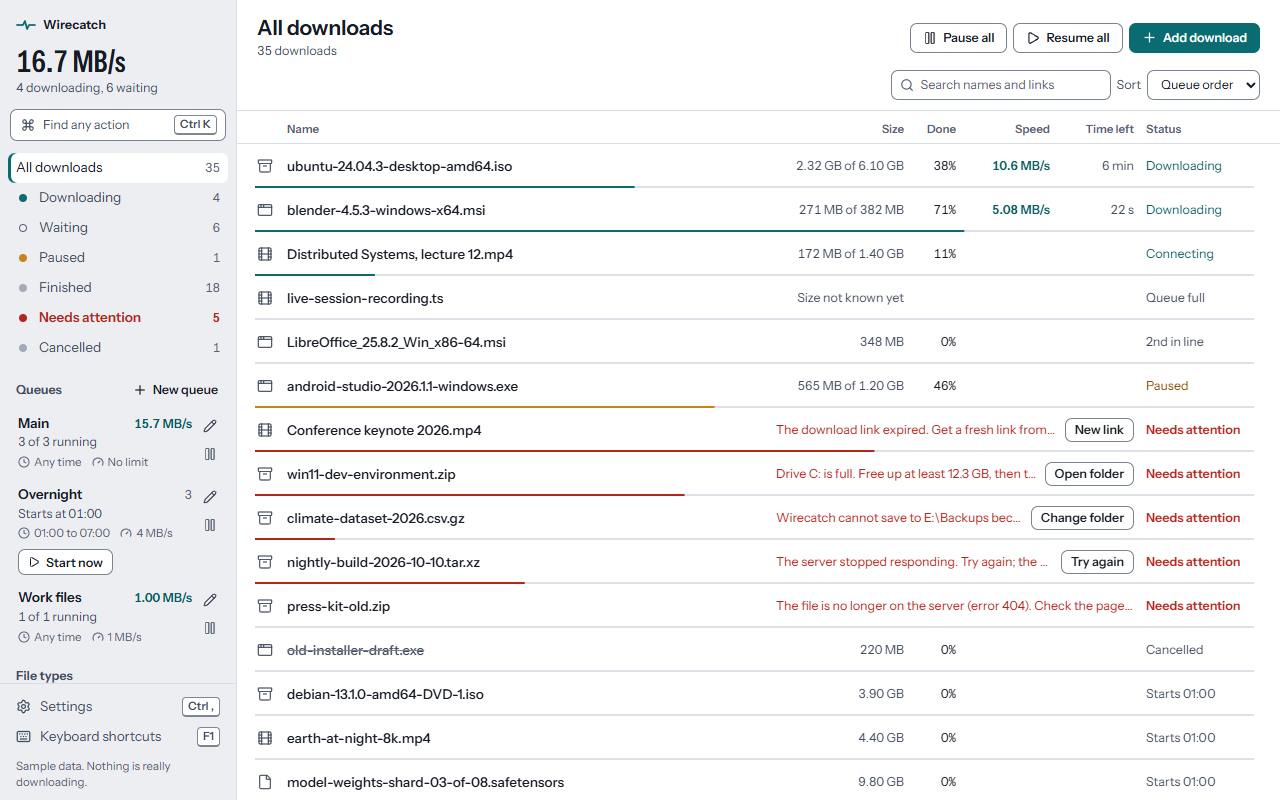
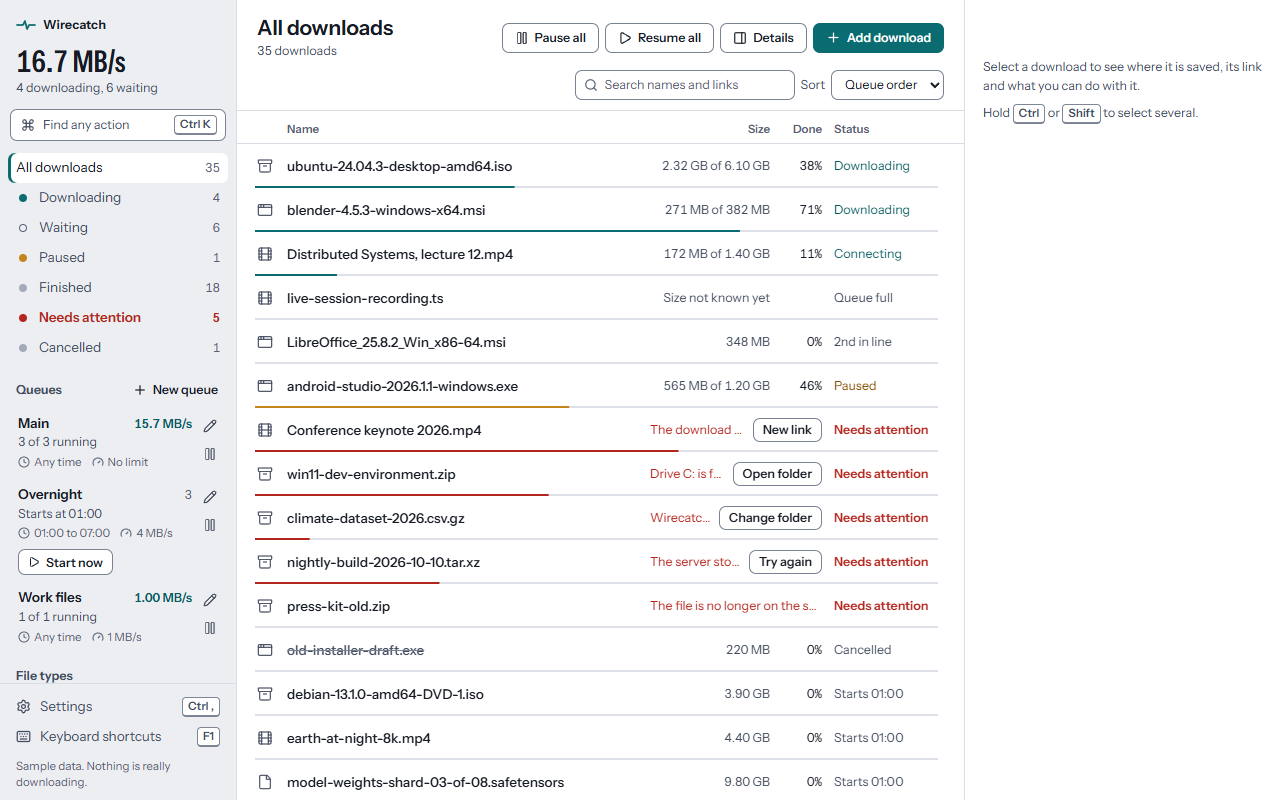
fix(desktop): dock the detail panel whenever the list keeps its columns
Between 1152 and 1360 pixels the detail panel floated over the list and hid its Done and Status columns. It now docks whenever the list beside it still shows Name, Size, Done and Status, and a layout test checks those columns beside the docked panel, including at 1600 by 1000.

diff --git a/apps/desktop/e2e/layout.spec.ts b/apps/desktop/e2e/layout.spec.ts
@@ -1,4 +1,4 @@
-// Review blocker 1: the window works at 960x600, 1280x800 and 1440x900, in both themes. Names
+// Review blocker 1: the window works at 960x600, 1280x800, 1440x900 and 1600x1000, in both themes. Names
 // keep real room, the toolbar stays on one line, nothing scrolls sideways, and the detail panel
 // floats over the list in narrower windows.
 
@@ -9,7 +9,25 @@ const SIZES = [
   { width: 960, height: 600 },
   { width: 1280, height: 800 },
   { width: 1440, height: 900 },
+  { width: 1600, height: 1000 },
 ] as const;
+
+/** From this window width the detail panel docks beside the list (`DOCK_WIDTH` in Shell). */
+const DOCK_WIDTH = 1152;
+
+/** With the panel docked, Name, Size, Done and Status stay in view, left of the panel. */
+async function checkColumnsBesidePanel(page: Page) {
+  const panel = await page.getByRole('complementary', { name: 'Selected download' }).boundingBox();
+  expect(panel, 'panel shown').not.toBeNull();
+  for (const name of ['Name', 'Size', 'Done', 'Status']) {
+    const cell = await page
+      .locator('.header span', { hasText: new RegExp(`^${name}$`) })
+      .boundingBox();
+    expect(cell, `${name} column shown`).not.toBeNull();
+    const right = (cell?.x ?? 0) + (cell?.width ?? 0);
+    expect(right, `${name} column left of the panel`).toBeLessThanOrEqual((panel?.x ?? 0) + 1);
+  }
+}
 
 async function checkLayout(page: Page) {
   const header = page.locator('.header span', { hasText: /^Name$/ });
@@ -49,8 +67,9 @@ for (const theme of ['light', 'dark'] as const) {
       const panel = page.getByRole('complementary', { name: 'Selected download' });
       await expect(panel).toBeVisible();
       const docked = await panel.evaluate((el) => !el.classList.contains('overlay'));
-      expect(docked, 'docked only in wide windows').toBe(size.width >= 1360);
+      expect(docked, 'docked whenever there is room').toBe(size.width >= DOCK_WIDTH);
       await checkLayout(page);
+      if (docked) await checkColumnsBesidePanel(page);
       await page.screenshot({
         path: `docs/screenshots/${theme}-layout-${size.width}x${size.height}-selected.png`,
       });

diff --git a/apps/desktop/src/lib/components/Shell.svelte b/apps/desktop/src/lib/components/Shell.svelte
@@ -16,8 +16,12 @@
 
   const app = getApp();
 
-  /** Below this width the detail panel floats over the list instead of taking a column. */
-  const DOCK_WIDTH = 1360;
+  /**
+   * Below this width the detail panel floats over the list instead of taking a column. It docks
+   * whenever the list beside it still has room for Name, Size, Done and Status: sidebar (236)
+   * plus panel (316) plus 600 for the list, which then shows its narrowest set of columns.
+   */
+  const DOCK_WIDTH = 236 + 316 + 600;
 
   onMount(() => {
     const query = window.matchMedia(`(min-width: ${DOCK_WIDTH}px)`);
